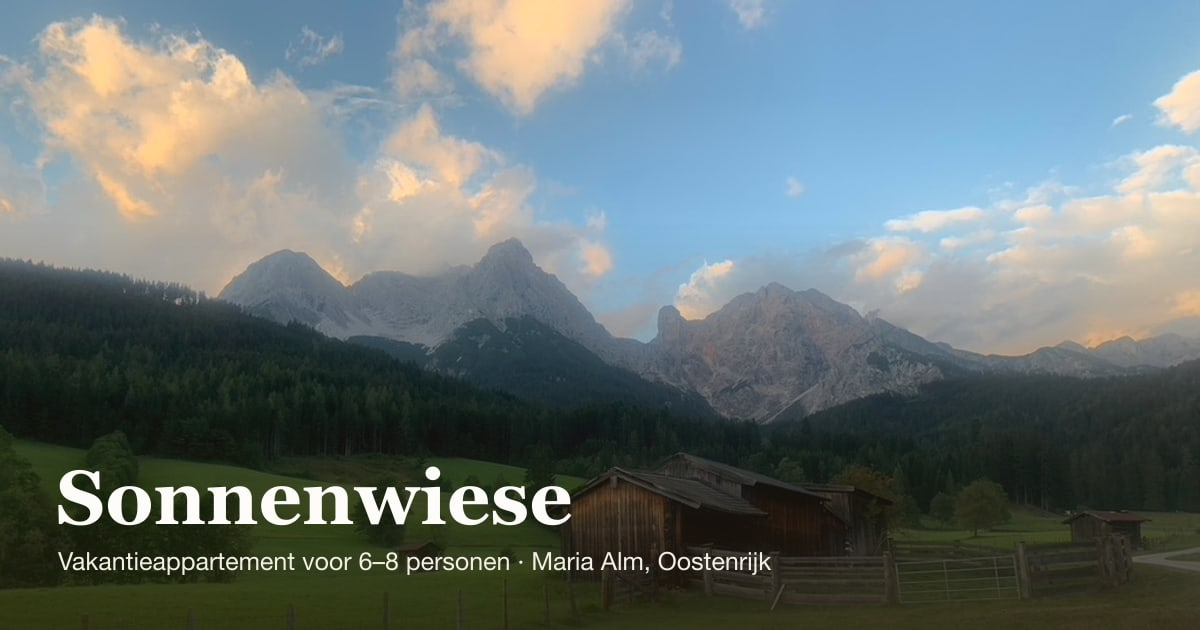
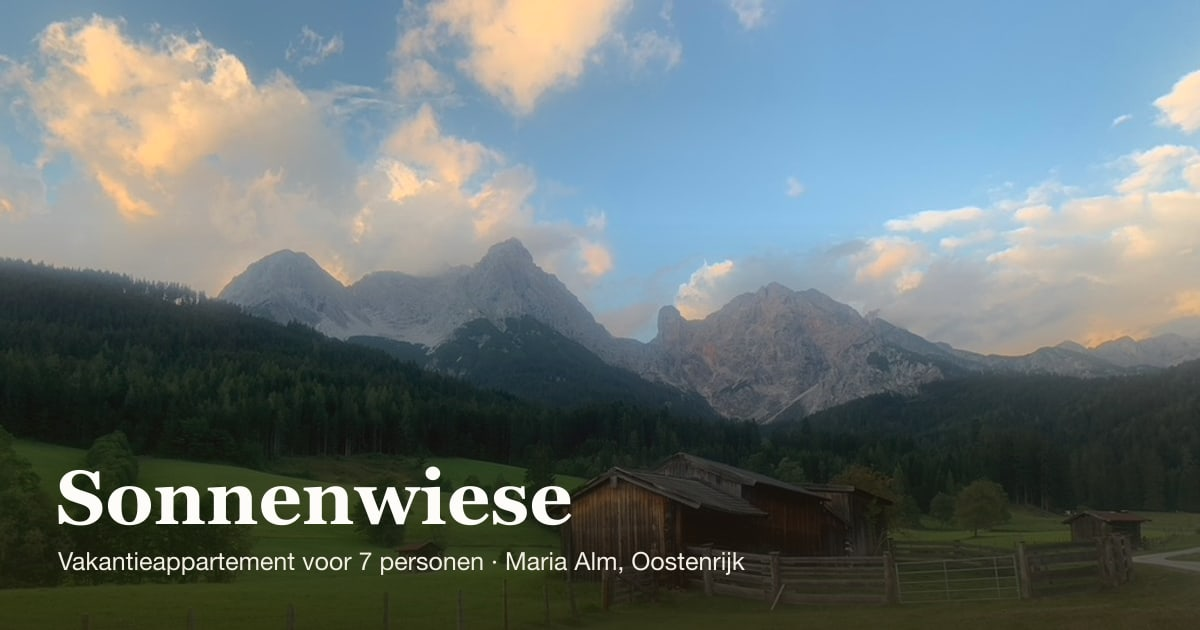
Zeven bedden, dus zeven personen
De site zei overal "6–8 personen", maar er staan twee tweepersoonsbedden,
een stapelbed en een eenpersoonsbed: dat is zeven. Bij acht sliep er dus
iemand op de bank, en dat kwam iemand pas ter plekke tegen.

Het formulier bood acht personen aan en de server accepteerde dat ook.
Beide gaan nu tot zeven, en dat getal staat nog op één plek — lib/booking/
capacity.ts. Het zat eerder los ingetypt in het keuzemenu, in de
servercontrole en in de foutmelding van drie talen; zulke getallen lopen
uit elkaar zodra er een bed bij komt.

Ook het deelplaatje voor WhatsApp had "6–8 personen" ingebakken. Opnieuw
gebouwd met scripts/og.mjs.

En de "vanaf € 450"-regel is van de homepage af, uit de hero en uit de
zwevende balk op de telefoon. Het laagste bedrag hoort bij de rustigste
zomerweek; als eerste kennismaking met de prijs zegt het meer over die
ene week dan over wat je gaat betalen. De knop heeft nu de volle breedte.

Changed region(s): [[0.2775, 0.8746, 0.6475, 0.9048]]

diff --git a/src/components/layout/StickyCta.tsx b/src/components/layout/StickyCta.tsx
@@ -1,9 +1,8 @@
 "use client";
 
 import { useEffect, useState } from "react";
-import { useLocale, useTranslations } from "next-intl";
+import { useTranslations } from "next-intl";
 import { Link, usePathname } from "@/i18n/navigation";
-import { MIN_WEEK_PRICE_CENTS, formatPrice } from "@/lib/booking/seasons";
 
 // Zwevende balk met de prijs en de knop, alleen op een telefoon.
 //
@@ -12,8 +11,6 @@ import { MIN_WEEK_PRICE_CENTS, formatPrice } from "@/lib/booking/seasons";
 // waardoor hij wil boeken. Deze balk vangt dat gat op.
 export default function StickyCta() {
   const t = useTranslations("footer");
-  const tc = useTranslations("common");
-  const locale = useLocale();
   const pathname = usePathname();
   const [zichtbaar, setZichtbaar] = useState(false);
 
@@ -65,14 +62,15 @@ export default function StickyCta() {
       // De thuisknopbalk van een iPhone zit onder de onderrand van het scherm.
       style={{ paddingBottom: "env(safe-area-inset-bottom)" }}
     >
-      <div className="flex items-center justify-between gap-3 px-4 py-3">
-        <span className="whitespace-nowrap text-sm font-semibold text-bark">
-          {tc("priceFrom", { price: formatPrice(MIN_WEEK_PRICE_CENTS, locale) })}
-        </span>
+      {/* Hier stond het laagste weektarief naast de knop. Dat is eruit: het
+          laagste bedrag hoort bij de rustigste zomerweek, en als eerste
+          kennismaking met de prijs zegt het meer over die ene week dan over
+          wat je gaat betalen. De knop mag nu de volle breedte hebben. */}
+      <div className="px-4 py-3">
         <Link
           href="/beschikbaarheid"
           tabIndex={zichtbaar ? undefined : -1}
-          className="rounded-lg bg-sun px-4 py-2.5 text-sm font-semibold text-snow transition-colors hover:bg-sun-dark"
+          className="block rounded-lg bg-sun px-4 py-3 text-center text-sm font-semibold text-snow transition-colors hover:bg-sun-dark"
         >
           {t("availabilityCta")}
         </Link>

diff --git a/src/app/[locale]/page.tsx b/src/app/[locale]/page.tsx
@@ -12,7 +12,6 @@ import PhotoMosaic from "@/components/ui/PhotoMosaic";
 import SeasonSection from "@/components/ui/SeasonSection";
 import Testimonials from "@/components/ui/Testimonials";
 import Reveal from "@/components/ui/Reveal";
-import { MIN_WEEK_PRICE_CENTS, formatPrice } from "@/lib/booking/seasons";
 
 export async function generateMetadata({
   params,
@@ -80,22 +79,12 @@ export default function HomePage({
         src="/photos/omgeving-zomer-schuur.jpg"
         alt="Sonnenwiese, Maria Alm"
         cta={
-          <>
-            <Link
-              href="/beschikbaarheid"
-              className="inline-block rounded-lg bg-sun px-6 py-3.5 text-base font-semibold text-snow shadow-lg transition-colors hover:bg-sun-dark"
-            >
-              {t("heroCta")}
-            </Link>
-            {/* Het laagste weektarief stond alleen op de prijzenpagina, twee
-                klikken diep. Voor acht personen is het opvallend weinig, en dat
-                is precies het soort ding dat je meteen wilt weten. */}
-            <p className="mt-3 text-sm text-cream drop-shadow">
-              {t("priceFrom", {
-                price: formatPrice(MIN_WEEK_PRICE_CENTS, locale),
-              })}
-            </p>
-          </>
+          <Link
+            href="/beschikbaarheid"
+            className="inline-block rounded-lg bg-sun px-6 py-3.5 text-base font-semibold text-snow shadow-lg transition-colors hover:bg-sun-dark"
+          >
+            {t("heroCta")}
+          </Link>
         }
       />
 

diff --git a/src/components/booking/BookingForm.tsx b/src/components/booking/BookingForm.tsx
@@ -6,6 +6,7 @@ import { useLocale, useTranslations } from "next-intl";
 import { format } from "date-fns";
 import { nl, de, enGB } from "date-fns/locale";
 import { Link } from "@/i18n/navigation";
+import { MAX_GUESTS } from "@/lib/booking/capacity";
 import BookingConfirmation from "./BookingConfirmation";
 
 const dateLocales = { nl, de, en: enGB } as const;
@@ -101,10 +102,13 @@ export default function BookingForm({
     }
   };
 
+  // max gaat naar elke foutmelding mee; alleen die over het aantal personen
+  // gebruikt hem. Zo hoeft het maximum niet ook nog eens in drie vertalingen
+  // te staan — dan zou een extra bed daar stilletjes achterblijven.
   const err = (key: keyof FieldErrors) =>
     errors[key] ? (
       <p className="mt-1 text-sm text-red-700">
-        {t(`validation.${errors[key]}`)}
+        {t(`validation.${errors[key]}`, { max: MAX_GUESTS })}
       </p>
     ) : null;
 
@@ -181,7 +185,7 @@ export default function BookingForm({
           onChange={(e) => setGuests(Number(e.target.value))}
           className={inputClass}
         >
-          {[1, 2, 3, 4, 5, 6, 7, 8].map((n) => (
+          {Array.from({ length: MAX_GUESTS }, (_, i) => i + 1).map((n) => (
             <option key={n} value={n}>
               {n}
             </option>

diff --git a/src/lib/validation/booking.ts b/src/lib/validation/booking.ts
@@ -1,5 +1,6 @@
 import type { BookingInput } from "@/lib/supabase/types";
 import { isChangeoverDate } from "@/lib/booking/weeks";
+import { MAX_GUESTS } from "@/lib/booking/capacity";
 
 const LOCALES = ["nl", "de", "en"] as const;
 const EMAIL_RE = /^[^\s@]+@[^\s@]+\.[^\s@]+$/;
@@ -50,7 +51,7 @@ export function validateBooking(raw: unknown): BookingValidationResult {
   }
 
   const guests = typeof body.guests === "number" ? body.guests : NaN;
-  if (!Number.isInteger(guests) || guests < 1 || guests > 8) {
+  if (!Number.isInteger(guests) || guests < 1 || guests > MAX_GUESTS) {
     errors.guests = "guestsInvalid";
   }
 

diff --git a/src/lib/booking/capacity.ts b/src/lib/booking/capacity.ts
@@ -1,0 +1,8 @@
+// Hoeveel mensen er kunnen slapen. Zeven, want zoveel bedden staan er: twee
+// tweepersoonsbedden, een stapelbed en een eenpersoonsbed.
+//
+// Het stond eerder als los ingetypte 8 in het keuzemenu van het formulier én
+// in de servercontrole, met "6–8 personen" in de teksten van drie talen
+// ernaast. Zulke getallen lopen uit elkaar zodra er iets verandert, en dan
+// accepteert de site een aanvraag voor een bed dat er niet is.
+export const MAX_GUESTS = 7;
